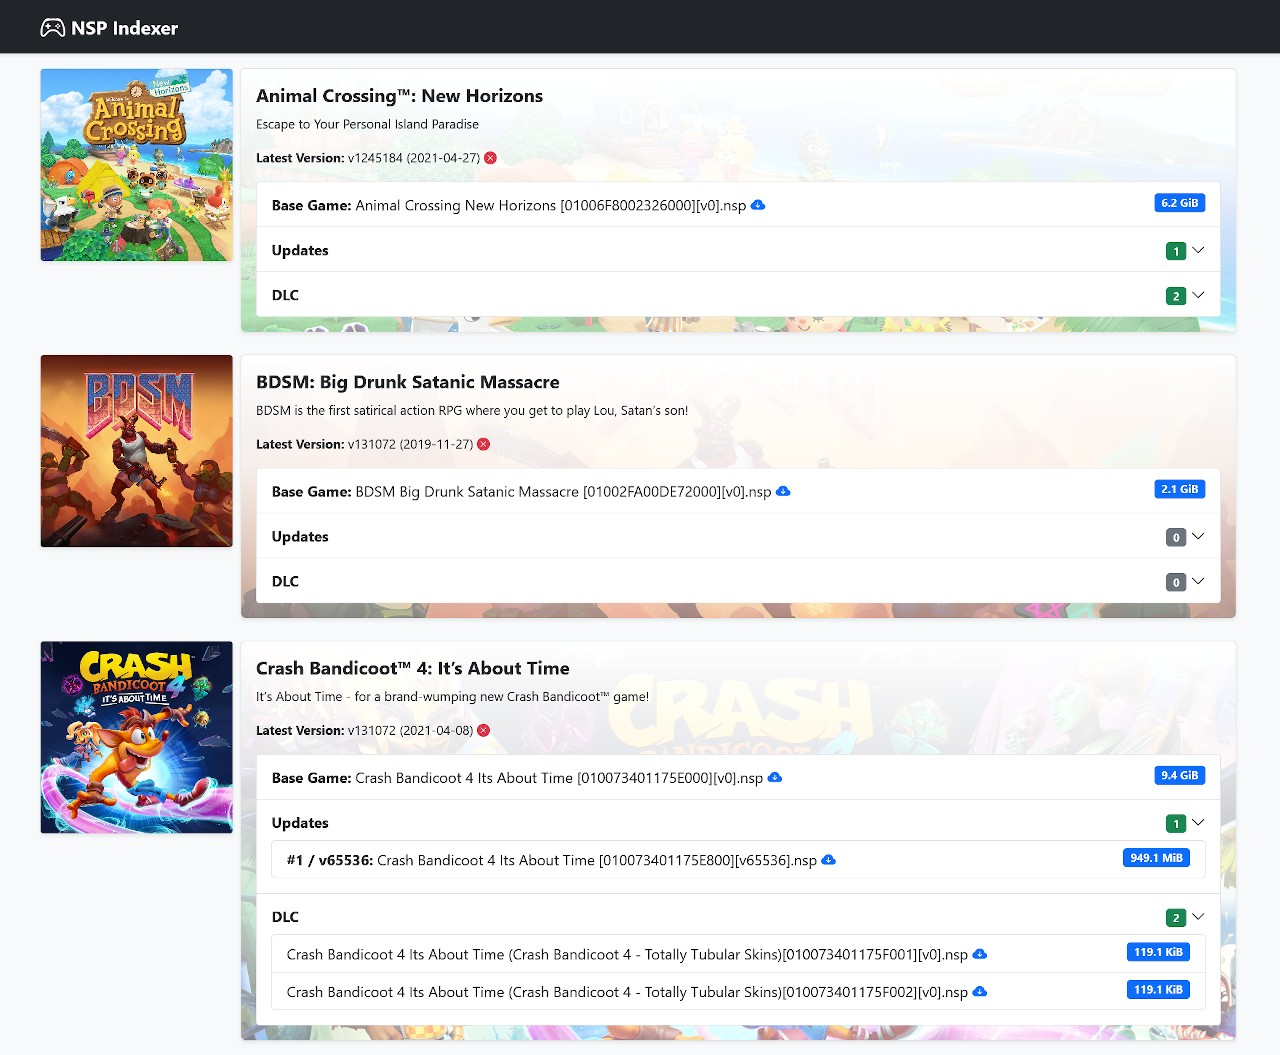
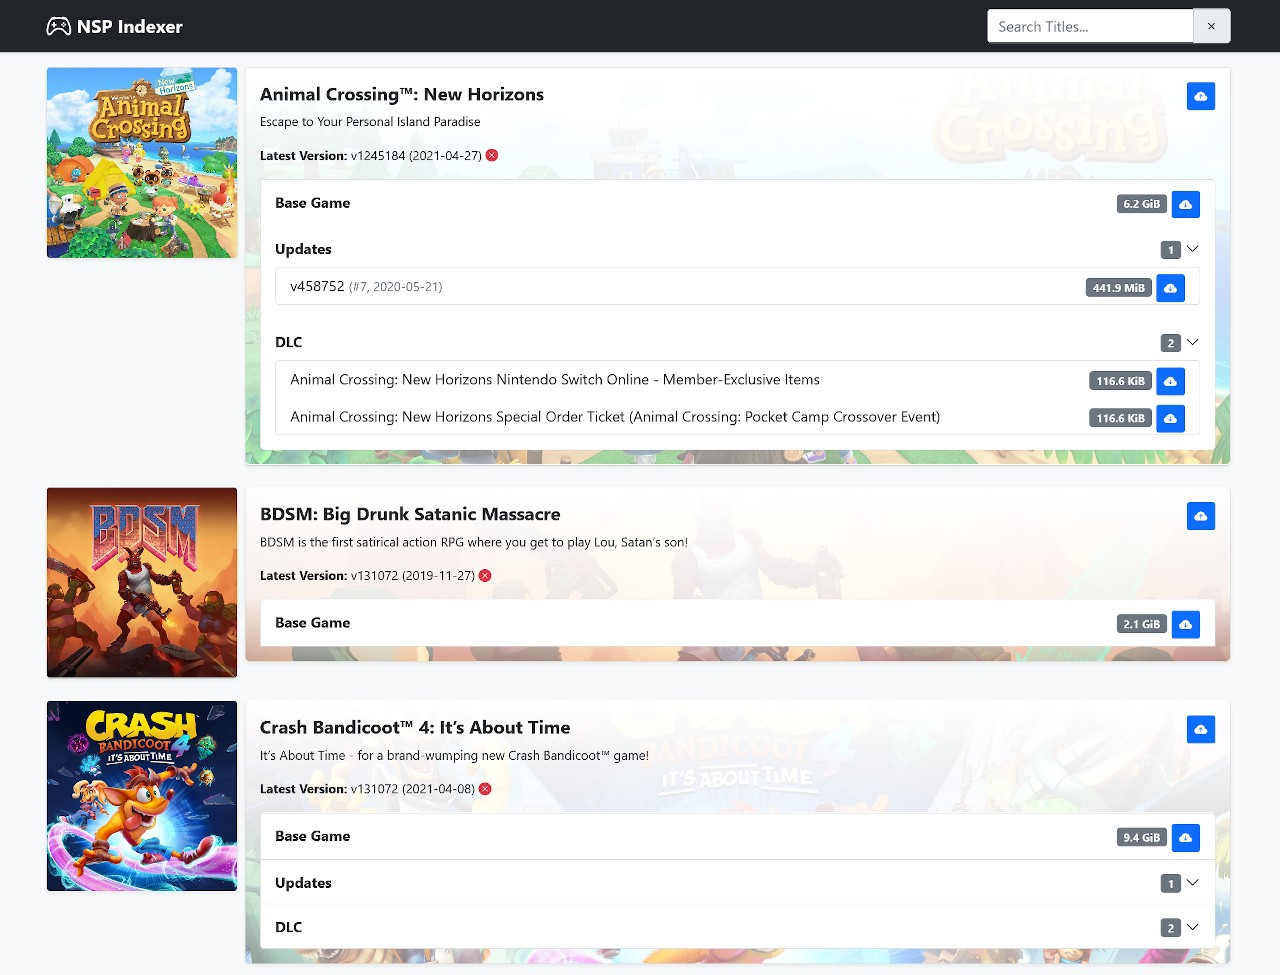
polish displayed data

Changed region(s): [[0.0, 0.0, 1.0, 1.0], [0.4688, 0.7077, 0.5625, 0.7385], [0.6875, 0.4, 0.7188, 0.4308]]

diff --git a/page.html b/page.html
@@ -49,7 +49,7 @@
             <a href="#">Back to top</a>
         </p>
         <p class="mb-1">NSP Indexer v<span id="version">0</span></p>
-</div>
+    </div>
 </footer>
 
 <div class="modal fade" id="modalNetInstall" tabindex="-1" aria-labelledby="modalNetInstallLabel" aria-hidden="true">
@@ -109,7 +109,7 @@
                         <ul class="list-group">
                             <li class="list-group-item">
                                 <p class="my-1">
-                                    <strong>Base Game:</strong> <%=fileName%>
+                                    <strong>Base Game</strong>
                                     <span class="float-end">
                                         <span class="badge bg-secondary"><%=fileSize%></span>
                                         <a href="<%=fileUrl%>" class="btn btn-sm bg-primary text-light">
@@ -122,7 +122,7 @@
                                 <p class="my-1 contentListTrigger">
                                     <strong>Updates</strong>
                                     <span class="float-end">
-                                    <span class="badge bg-success"><%=countUpdates%></span>
+                                    <span class="badge bg-secondary"><%=countUpdates%></span>
                                     <i class="listChevron bi-chevron-down text-dark"></i>
                                 </span>
                                 </p>
@@ -134,7 +134,7 @@
                                 <p class="my-1 contentListTrigger">
                                     <strong>DLC</strong>
                                     <span class="float-end">
-                                    <span class="badge bg-success"><%=countDlc%></span>
+                                    <span class="badge bg-secondary"><%=countDlc%></span>
                                     <i class="listChevron bi-chevron-down text-dark"></i>
                                 </span>
                                 </p>
@@ -151,7 +151,7 @@
 </script>
 
 <script id="updateTemplate" type="text/x-template">
-    <li class="list-group-item"><strong>#<%=revision%> / v<%=version%>:</strong> <%=name%>
+    <li class="list-group-item">v<%=version%> <small class="text-muted">(#<%=revision%>, <%=date%>)</small>
         <span class="float-end">
             <span class="badge bg-secondary"><%=size%></span>
             <a href="<%=url%>" class="btn btn-sm bg-primary text-light">
@@ -175,14 +175,10 @@
 <script id="netInstallTemplate" type="text/x-template">
     <ul class="list-group">
         <li class="list-group-item">
-            <div class="row">
-                <p class="my-1">
-                    <strong>Base Game</strong>
-                </p>
-            </div>
             <div class="form-check">
-                <input class="form-check-input netInstallCheckbox" type="checkbox" id="netinstallbase" data-path="<%=path%>">
-                <label class="form-check-label" for="netinstallbase" class="noWrap"><%=name%></label>
+                <input class="form-check-input netInstallCheckbox" type="checkbox" id="netinstallbase"
+                       data-path="<%=path%>">
+                <label class="form-check-label" for="netinstallbase" class="noWrap"><strong>Base Game</strong></label>
             </div>
         </li>
         <li class="list-group-item <%=hideUpdates%>">
@@ -210,7 +206,8 @@
 
 <script id="netInstallContentTemplate" type="text/x-template">
     <div class="form-check">
-        <input class="form-check-input netInstallCheckbox" type="checkbox" id="netinstall<%=type%>_<%=idx%>" data-path="<%=path%>">
+        <input class="form-check-input netInstallCheckbox" type="checkbox" id="netinstall<%=type%>_<%=idx%>"
+               data-path="<%=path%>">
         <label class="form-check-label small" for="netinstall<%=type%>_<%=idx%>" class="noWrap"><%=name%></label>
     </div>
 </script>

diff --git a/js/nspindexer.js b/js/nspindexer.js
@@ -119,7 +119,7 @@ function createCard(id, title) {
         listUpdates += tmpl(updateTemplate, {
             version: u.version,
             revision: u.version / 65536,
-            name: u.path.split(/\//).pop(),
+            date: u.date,
             url: contentUrl + u.path,
             size: bytesToHuman(u.size_real)
         });
@@ -127,7 +127,7 @@ function createCard(id, title) {
     var dlcTemplate = $('#dlcTemplate').html();
     $.each(title.dlc, function (i, d) {
         listDlc += tmpl(dlcTemplate, {
-            name: d.path.split(/\//).pop(),
+            name: d.name,
             url: contentUrl + d.path,
             size: bytesToHuman(d.size_real)
         });
@@ -148,7 +148,6 @@ function createCard(id, title) {
         latestVersion: title.latest_version == null ? "?" : title.latest_version,
         latestDate: title.latest_date == null ? "?" : title.latest_date,
         updateStatus: updateStatus,
-        fileName: title.path.split(/\//).pop(),
         fileUrl: contentUrl + title.path,
         fileSize: bytesToHuman(title.size_real),
         hideUpdates: (countUpdates == 0) ? "d-none" : "",
@@ -172,7 +171,7 @@ function startNetInstall() {
         dstAddr: dstAddr,
         listFiles: listFiles
     }, function (status) {
-        if(status.int === 0) {
+        if (status.int === 0) {
             $('#modalNetInstall').modal('hide');
         } else {
             alert(status.msg);
@@ -192,7 +191,7 @@ function modalNetInstall(titleId) {
         listUpdates += tmpl(contentTemplate, {
             type: 'update',
             idx: i,
-            name: u.version,
+            name: 'v' + u.version + ' <small class="text-muted">(#' + u.version / 65536 + ', ' + u.date + ')</small>',
             path: contentUrl + u.path,
         });
     });
@@ -203,15 +202,15 @@ function modalNetInstall(titleId) {
         listDlc += tmpl(contentTemplate, {
             type: 'dlc',
             idx: i,
-            name: u.path.split(/\//).pop(),
+            name: u.name,
             path: contentUrl + u.path,
         });
     });
 
     var listTemplate = $('#netInstallTemplate').html();
     var list = tmpl(listTemplate, {
-        path: encodeURI(titles[titleId]["path"]),
-        name: titles[titleId]["path"].split(/\//).pop(),
+        path: encodeURI(titles[titleId].path),
+        name: titles[titleId].name,
         hideUpdates: (countUpdates == 0) ? "d-none" : "",
         listUpdates: listUpdates,
         hideDlc: (countDlc == 0) ? "d-none" : "",

diff --git a/index.php b/index.php
@@ -149,7 +149,8 @@ function getMetadata($type, $refresh = false)
     return json_decode($json, true);
 }
 
-function refreshMetadata() {
+function refreshMetadata()
+{
     $refreshed = array();
     foreach (array('versions', 'titles') as $type) {
         if (filemtime(CACHE_DIR . "/" . $type . ".json") < (time() - 60 * 5)) {
@@ -255,10 +256,11 @@ if (isset($_GET["json"])) {
     outputDbi();
     die();
 } elseif (isset($_GET['metadata'])) {
-    header("Content-Type: application/json");
     $refreshed = refreshMetadata();
+    header("Content-Type: application/json");
     echo json_encode(array(
-        "msg" => "Metadata ". ((count($refreshed) > 0) ? "updated: ".join(", ", $refreshed) : "not updated")
+        "int" => ((count($refreshed) > 0) ? 1 : 0),
+        "msg" => "Metadata " . ((count($refreshed) > 0) ? "updated: " . join(", ", $refreshed) : "not updated")
     ));
     die;
 }
